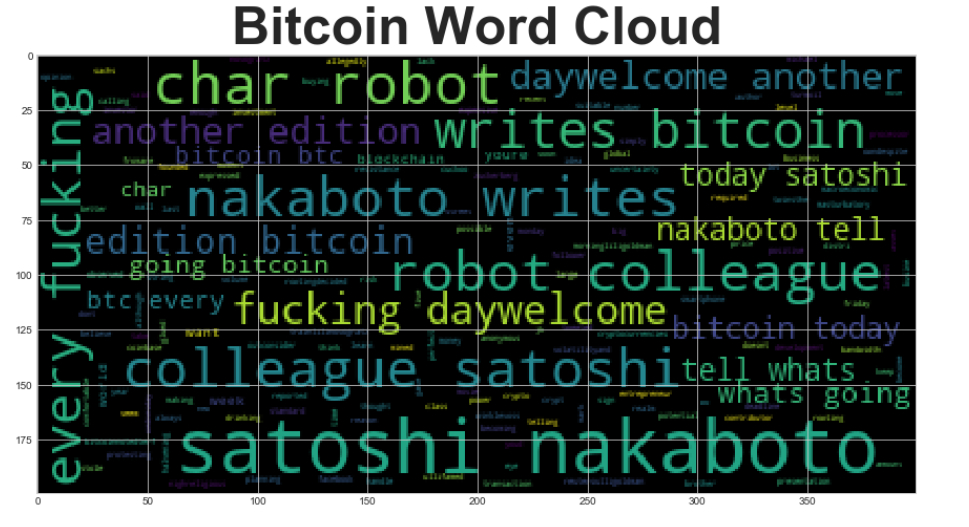
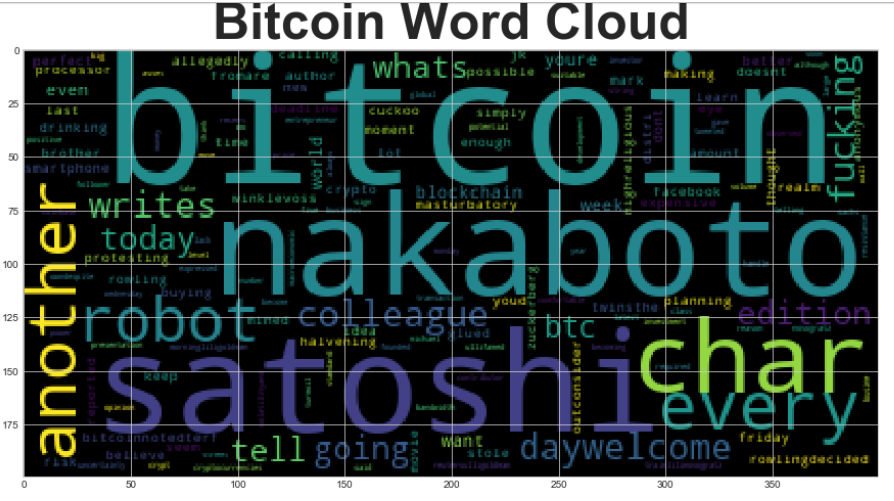
Final Readme

diff --git a/README.md b/README.md
@@ -1,4 +1,4 @@
-## Tales from the Crypto - Natural Language Processing
+Tales from the Crypto - Natural Language Processing
 
 ![Stock Sentiment](Images/sentimental.jpeg)
 
@@ -8,12 +8,12 @@ As there's been a lot of hype in the news lately about cryptocurrency, we would 
 
 Using fundamental NLP techniques to understand the sentiment in the latest news article featuring Bitcoin & Ethereum and also other factors involved with the coin prices such as common words & phrases and organizations & entities mentioned in the articles.
 
-Following tasks are performed:
+#### Packages Used:
 
 <br>1. [Sentiment Analysis](#Sentiment-Analysis)</br>
 * Use of [Vader Sentiment Analysis](http://www.nltk.org/howto/sentiment.html)
 
-    ```
+    ```python
         from nltk.sentiment.vader import SentimentIntensityAnalyzer
         analyzer = SentimentIntensityAnalyzer()
     ```
@@ -22,10 +22,11 @@ Following tasks are performed:
 * Natural Language Toolkit [NLTK](https://en.wikipedia.org/wiki/Natural_Language_Toolkit)
 * Tokenizing Words & Sentences with NLTK [Tokenizing](https://en.wikipedia.org/wiki/Natural_Language_Toolkit)
 * Generate N-grams [N-grams](https://www.pythonprogramming.in/generate-the-n-grams-for-the-given-sentence-using-nltk-or-textblob.html)
+* Word Cloud [Word_Cloud](https://amueller.github.io/word_cloud/)
 
 <br>3. [Named Entity Recognition](#Named-Entity-Recognition)</br>
-* Use of [SpaCy](https://realpython.com/natural-language-processing-spacy-python/)
-* Use of [SpaCy_Visualizer](https://spacy.io/usage/visualizers)
+* NER [SpaCy](https://realpython.com/natural-language-processing-spacy-python/)
+* Visualizer [Displacy](https://spacy.io/usage/visualizers)
 
 - - -
 
@@ -64,17 +65,17 @@ Following tasks are performed:
 <img src="Images/btc_describe.PNG" width="300" /> | <img src="Images/eth_describe.PNG" width="300" />
 
 * Which coin had the highest mean positive score?
-  ```
-     Ethereum - 0.08 
+  ```python
+     Bitcoin - 0.07
   ```
 
 * Which coin had the highest negative score? 
-  ```
+  ```python
      Ethereum - 0.025 
   ```
 
 * Which coin had the highest positive score? 
-  ```
+  ```python
      Ethereum - 0.9198 
   ```
 </ul>
@@ -87,7 +88,7 @@ Following tasks are performed:
     
 <br>1. *Import the following Libraries from nltk:*</br>
     
-    ```
+    ```python
         from nltk.tokenize import word_tokenize, sent_tokenize
         from nltk.corpus import stopwords
         from nltk.stem import WordNetLemmatizer, PorterStemmer
@@ -98,20 +99,20 @@ Following tasks are performed:
 <br>2. *Use NLTK and Python to tokenize the text for each coin*</br>
 
 * Remove punctuation
-    ```    
+    ```python   
         regex = re.compile("[^a-zA-Z0-9 ]")
         re_clean = regex.sub('', text)
     ```
 * Lowercase each word
-    ```
+    ```python
         words = word_tokenize(re_clean.lower())
     ```
 * Remove stop words
-    ```
+    ```python
         sw = set(stopwords.words('english'))
     ```
 * Lemmatize Words into Root words
-    ```
+    ```python
         lemmatizer = WordNetLemmatizer()
         lem = [lemmatizer.lemmatize(word) for word in words]
     ```
@@ -119,7 +120,7 @@ Following tasks are performed:
 <br>3. Look at the ngrams and word frequency for each coin</br>
 
 * Use NLTK to produce the ngrams for N = 2
-    ```
+    ```python
         def get_token(df):
              tokens = []
         for i in df['tokens']:
@@ -137,7 +138,7 @@ Following tasks are performed:
     ```
 
 * List the top 10 words for each coin
-    ```
+    ```python
         # Use the token_count function to generate the top 10 words from each coin
         def token_count(tokens, N=10):
         """Returns the top N tokens from the frequency count"""
@@ -149,7 +150,7 @@ Following tasks are performed:
 <img src="Images/btc_top_10.PNG" width="200" /> | <img src="Images/eth_top_10.PNG" width="200" />
 
 * Generate word clouds for each coin to summarize the news for each coin.
-    ```
+    ```python
         from wordcloud import WordCloud
         import matplotlib.pyplot as plt
         plt.style.use('seaborn-whitegrid')
@@ -167,21 +168,21 @@ Following tasks are performed:
     <summary>Named Entity Recognition</summary>
 
 <br>1. Import SpaCy and displacy</br>
-    ```
+    ```python
         import spacy
         from spacy import displacy
         # Load the spaCy model
         nlp = spacy.load('en_core_web_sm')
     ```
 <br>2. Build a named entity recognition model for both coins</br>
-    ```
+    ```python
         # Run the NER processor on all of the text
         doc = nlp(btc_content)
         # Add a title to the document
         doc.user_data["title"] = "BITCOIN NER"
     ```
 <br>3. Visualize the tags using SpaCy</br>
-    ```
+    ```python
         displacy.render(doc, style='ent')
     ```
     
@@ -190,7 +191,7 @@ Following tasks are performed:
 ![eth-ner.png](Images/eth-ner.png)
 
 <br>4. List all Entities</br>
-    ```
+    ```python
         for ent in doc.ents:
         print('{} {}'.format(ent.text, ent.label_))
      ```
